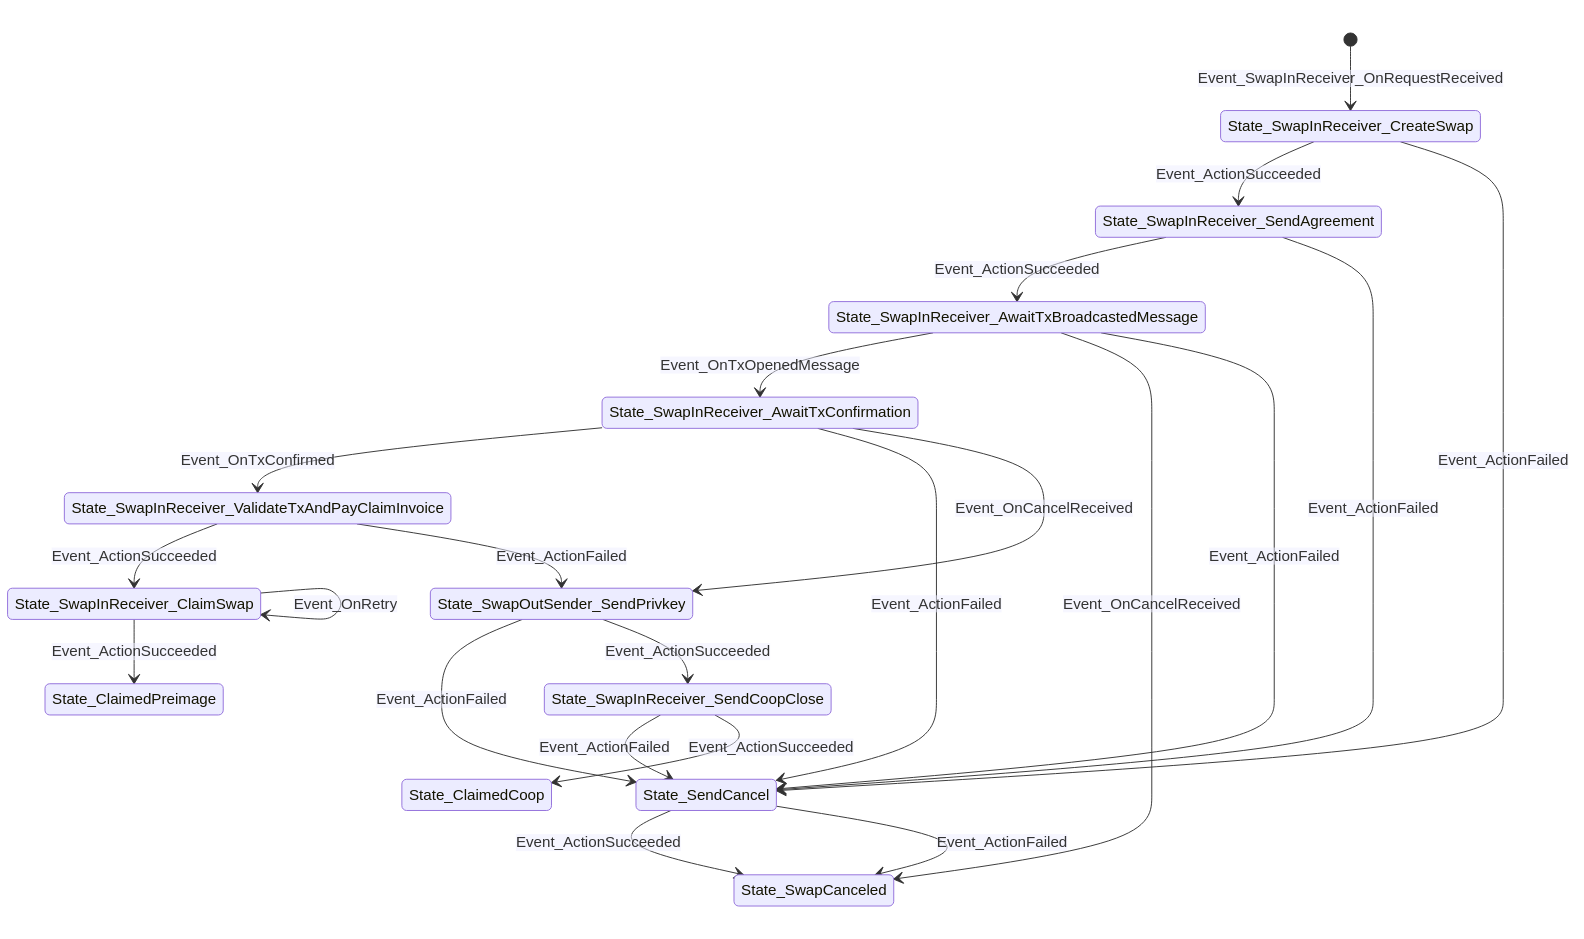
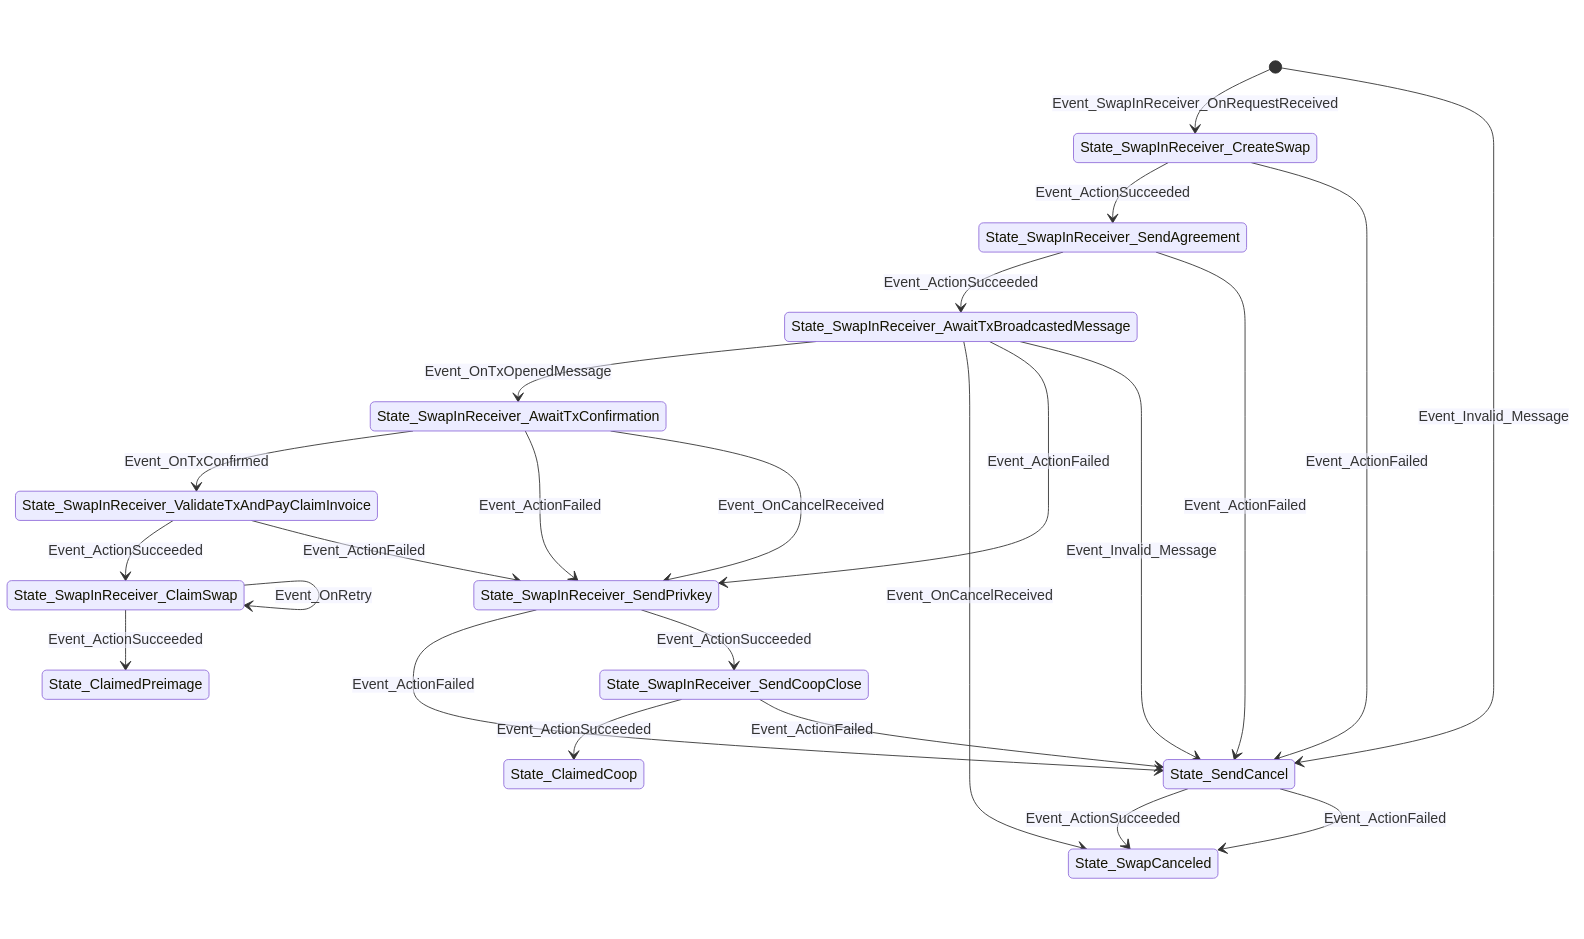
docs: Refresh state machine diagrams

diff --git a/docs/mmd/swap-out-receiver-states.md b/docs/mmd/swap-out-receiver-states.md
@@ -1,39 +1,42 @@
 ```mermaid
 stateDiagram-v2
-[*] --> State_SwapOutReceiver_CreateSwap: Event_OnSwapOutRequestReceived
-State_SwapOutReceiver_SendFeeInvoice
-State_SwapOutReceiver_SendFeeInvoice --> State_SendCancel: Event_ActionFailed
-State_SwapOutReceiver_SendFeeInvoice --> State_SwapOutReceiver_AwaitFeeInvoicePayment: Event_ActionSucceeded
+State_SwapOutReceiver_BroadcastOpeningTx
+State_SwapOutReceiver_BroadcastOpeningTx --> State_SwapOutReceiver_SendTxBroadcastedMessage: Event_ActionSucceeded
+State_SwapOutReceiver_BroadcastOpeningTx --> State_SendCancel: Event_ActionFailed
+State_WaitCsv
+State_WaitCsv --> State_SwapOutReceiver_ClaimSwapCsv: Event_OnCsvPassed
+State_WaitCsv --> State_SwapOutReceiver_ClaimSwapCoop: Event_OnCoopCloseReceived
 State_SendCancel
 State_SendCancel --> State_SwapCanceled: Event_ActionSucceeded
 State_SendCancel --> State_SwapCanceled: Event_ActionFailed
+State_ClaimedCsv
+State_SwapOutReceiver_SendFeeInvoice
+State_SwapOutReceiver_SendFeeInvoice --> State_SwapOutReceiver_AwaitFeeInvoicePayment: Event_ActionSucceeded
+State_SwapOutReceiver_SendFeeInvoice --> State_SendCancel: Event_ActionFailed
+State_SwapOutReceiver_AwaitFeeInvoicePayment
+State_SwapOutReceiver_AwaitFeeInvoicePayment --> State_SwapOutReceiver_BroadcastOpeningTx: Event_OnFeeInvoicePaid
+State_SwapOutReceiver_AwaitFeeInvoicePayment --> State_SwapCanceled: Event_OnCancelReceived
+State_SwapCanceled
 State_ClaimedCoop
+[*] --> State_SwapOutReceiver_CreateSwap: Event_OnSwapOutRequestReceived
+[*] --> State_SendCancel: Event_Invalid_Message
+State_SwapOutReceiver_AwaitClaimInvoicePayment
+State_SwapOutReceiver_AwaitClaimInvoicePayment --> State_ClaimedPreimage: Event_OnClaimInvoicePaid
+State_SwapOutReceiver_AwaitClaimInvoicePayment --> State_WaitCsv: Event_OnCancelReceived
+State_SwapOutReceiver_AwaitClaimInvoicePayment --> State_SwapOutReceiver_ClaimSwapCoop: Event_OnCoopCloseReceived
+State_SwapOutReceiver_AwaitClaimInvoicePayment --> State_SwapOutReceiver_ClaimSwapCsv: Event_OnCsvPassed
+State_SwapOutReceiver_AwaitClaimInvoicePayment --> State_WaitCsv: Event_Invalid_Message
 State_SwapOutReceiver_SendTxBroadcastedMessage
 State_SwapOutReceiver_SendTxBroadcastedMessage --> State_SwapOutReceiver_AwaitClaimInvoicePayment: Event_ActionSucceeded
 State_SwapOutReceiver_SendTxBroadcastedMessage --> State_SwapOutReceiver_Aborted: Event_ActionFailed
-State_SwapOutReceiver_ClaimSwapCoop
-State_SwapOutReceiver_ClaimSwapCoop --> State_ClaimedCoop: Event_ActionSucceeded
-State_SwapOutReceiver_ClaimSwapCoop --> State_SwapOutReceiver_Aborted: Event_ActionFailed
-State_SwapOutReceiver_Aborted
-State_SwapOutReceiver_Aborted --> State_SwapOutReceiver_ClaimSwapCsv: Event_OnCsvPassed
+State_SwapOutReceiver_ClaimSwapCsv
+State_SwapOutReceiver_ClaimSwapCsv --> State_ClaimedCsv: Event_ActionSucceeded
+State_SwapOutReceiver_ClaimSwapCsv --> State_SwapOutReceiver_ClaimSwapCsv: Event_OnRetry
 State_ClaimedPreimage
 State_SwapOutReceiver_CreateSwap
 State_SwapOutReceiver_CreateSwap --> State_SwapOutReceiver_SendFeeInvoice: Event_ActionSucceeded
 State_SwapOutReceiver_CreateSwap --> State_SendCancel: Event_ActionFailed
-State_SwapOutReceiver_AwaitFeeInvoicePayment
-State_SwapOutReceiver_AwaitFeeInvoicePayment --> State_SwapOutReceiver_BroadcastOpeningTx: Event_OnFeeInvoicePaid
-State_SwapOutReceiver_AwaitFeeInvoicePayment --> State_SwapCanceled: Event_OnCancelReceived
-State_SwapOutReceiver_AwaitClaimInvoicePayment
-State_SwapOutReceiver_AwaitClaimInvoicePayment --> State_SwapOutReceiver_ClaimSwapCsv: Event_OnCancelReceived
-State_SwapOutReceiver_AwaitClaimInvoicePayment --> State_SwapOutReceiver_ClaimSwapCoop: Event_OnCoopCloseReceived
-State_SwapOutReceiver_AwaitClaimInvoicePayment --> State_SwapOutReceiver_ClaimSwapCsv: Event_OnCsvPassed
-State_SwapOutReceiver_AwaitClaimInvoicePayment --> State_ClaimedPreimage: Event_OnClaimInvoicePaid
-State_ClaimedCsv
-State_SwapOutReceiver_BroadcastOpeningTx
-State_SwapOutReceiver_BroadcastOpeningTx --> State_SwapOutReceiver_SendTxBroadcastedMessage: Event_ActionSucceeded
-State_SwapOutReceiver_BroadcastOpeningTx --> State_SendCancel: Event_ActionFailed
-State_SwapOutReceiver_ClaimSwapCsv
-State_SwapOutReceiver_ClaimSwapCsv --> State_ClaimedCsv: Event_ActionSucceeded
-State_SwapOutReceiver_ClaimSwapCsv --> State_SwapOutReceiver_ClaimSwapCsv: Event_OnRetry
-State_SwapCanceled
+State_SwapOutReceiver_ClaimSwapCoop
+State_SwapOutReceiver_ClaimSwapCoop --> State_ClaimedCoop: Event_ActionSucceeded
+State_SwapOutReceiver_ClaimSwapCoop --> State_WaitCsv: Event_ActionFailed
 ```

diff --git a/docs/mmd/swap-in-receiver-states.md b/docs/mmd/swap-in-receiver-states.md
@@ -1,36 +1,38 @@
 ```mermaid
 stateDiagram-v2
-State_SwapInReceiver_AwaitTxBroadcastedMessage
-State_SwapInReceiver_AwaitTxBroadcastedMessage --> State_SwapInReceiver_AwaitTxConfirmation: Event_OnTxOpenedMessage
-State_SwapInReceiver_AwaitTxBroadcastedMessage --> State_SwapCanceled: Event_OnCancelReceived
-State_SwapInReceiver_AwaitTxBroadcastedMessage --> State_SendCancel: Event_ActionFailed
-State_SwapInReceiver_ValidateTxAndPayClaimInvoice
-State_SwapInReceiver_ValidateTxAndPayClaimInvoice --> State_SwapInReceiver_ClaimSwap: Event_ActionSucceeded
-State_SwapInReceiver_ValidateTxAndPayClaimInvoice --> State_SwapOutSender_SendPrivkey: Event_ActionFailed
-State_SwapOutSender_SendPrivkey
-State_SwapOutSender_SendPrivkey --> State_SendCancel: Event_ActionFailed
-State_SwapOutSender_SendPrivkey --> State_SwapInReceiver_SendCoopClose: Event_ActionSucceeded
+State_SwapInReceiver_CreateSwap
+State_SwapInReceiver_CreateSwap --> State_SwapInReceiver_SendAgreement: Event_ActionSucceeded
+State_SwapInReceiver_CreateSwap --> State_SendCancel: Event_ActionFailed
+State_SwapInReceiver_AwaitTxConfirmation
+State_SwapInReceiver_AwaitTxConfirmation --> State_SwapInReceiver_ValidateTxAndPayClaimInvoice: Event_OnTxConfirmed
+State_SwapInReceiver_AwaitTxConfirmation --> State_SwapInReceiver_SendPrivkey: Event_ActionFailed
+State_SwapInReceiver_AwaitTxConfirmation --> State_SwapInReceiver_SendPrivkey: Event_OnCancelReceived
+State_SwapInReceiver_SendPrivkey
+State_SwapInReceiver_SendPrivkey --> State_SendCancel: Event_ActionFailed
+State_SwapInReceiver_SendPrivkey --> State_SwapInReceiver_SendCoopClose: Event_ActionSucceeded
+State_ClaimedCoop
 State_ClaimedPreimage
 State_SendCancel
 State_SendCancel --> State_SwapCanceled: Event_ActionSucceeded
 State_SendCancel --> State_SwapCanceled: Event_ActionFailed
-State_ClaimedCoop
 [*] --> State_SwapInReceiver_CreateSwap: Event_SwapInReceiver_OnRequestReceived
-State_SwapInReceiver_CreateSwap
-State_SwapInReceiver_CreateSwap --> State_SwapInReceiver_SendAgreement: Event_ActionSucceeded
-State_SwapInReceiver_CreateSwap --> State_SendCancel: Event_ActionFailed
+[*] --> State_SendCancel: Event_Invalid_Message
+State_SwapInReceiver_SendAgreement
+State_SwapInReceiver_SendAgreement --> State_SwapInReceiver_AwaitTxBroadcastedMessage: Event_ActionSucceeded
+State_SwapInReceiver_SendAgreement --> State_SendCancel: Event_ActionFailed
+State_SwapInReceiver_AwaitTxBroadcastedMessage
+State_SwapInReceiver_AwaitTxBroadcastedMessage --> State_SwapInReceiver_AwaitTxConfirmation: Event_OnTxOpenedMessage
+State_SwapInReceiver_AwaitTxBroadcastedMessage --> State_SwapCanceled: Event_OnCancelReceived
+State_SwapInReceiver_AwaitTxBroadcastedMessage --> State_SwapInReceiver_SendPrivkey: Event_ActionFailed
+State_SwapInReceiver_AwaitTxBroadcastedMessage --> State_SendCancel: Event_Invalid_Message
+State_SwapInReceiver_ValidateTxAndPayClaimInvoice
+State_SwapInReceiver_ValidateTxAndPayClaimInvoice --> State_SwapInReceiver_ClaimSwap: Event_ActionSucceeded
+State_SwapInReceiver_ValidateTxAndPayClaimInvoice --> State_SwapInReceiver_SendPrivkey: Event_ActionFailed
 State_SwapInReceiver_SendCoopClose
-State_SwapInReceiver_SendCoopClose --> State_SendCancel: Event_ActionFailed
 State_SwapInReceiver_SendCoopClose --> State_ClaimedCoop: Event_ActionSucceeded
+State_SwapInReceiver_SendCoopClose --> State_SendCancel: Event_ActionFailed
 State_SwapInReceiver_ClaimSwap
 State_SwapInReceiver_ClaimSwap --> State_ClaimedPreimage: Event_ActionSucceeded
 State_SwapInReceiver_ClaimSwap --> State_SwapInReceiver_ClaimSwap: Event_OnRetry
 State_SwapCanceled
-State_SwapInReceiver_SendAgreement
-State_SwapInReceiver_SendAgreement --> State_SwapInReceiver_AwaitTxBroadcastedMessage: Event_ActionSucceeded
-State_SwapInReceiver_SendAgreement --> State_SendCancel: Event_ActionFailed
-State_SwapInReceiver_AwaitTxConfirmation
-State_SwapInReceiver_AwaitTxConfirmation --> State_SwapInReceiver_ValidateTxAndPayClaimInvoice: Event_OnTxConfirmed
-State_SwapInReceiver_AwaitTxConfirmation --> State_SendCancel: Event_ActionFailed
-State_SwapInReceiver_AwaitTxConfirmation --> State_SwapOutSender_SendPrivkey: Event_OnCancelReceived
 ```
